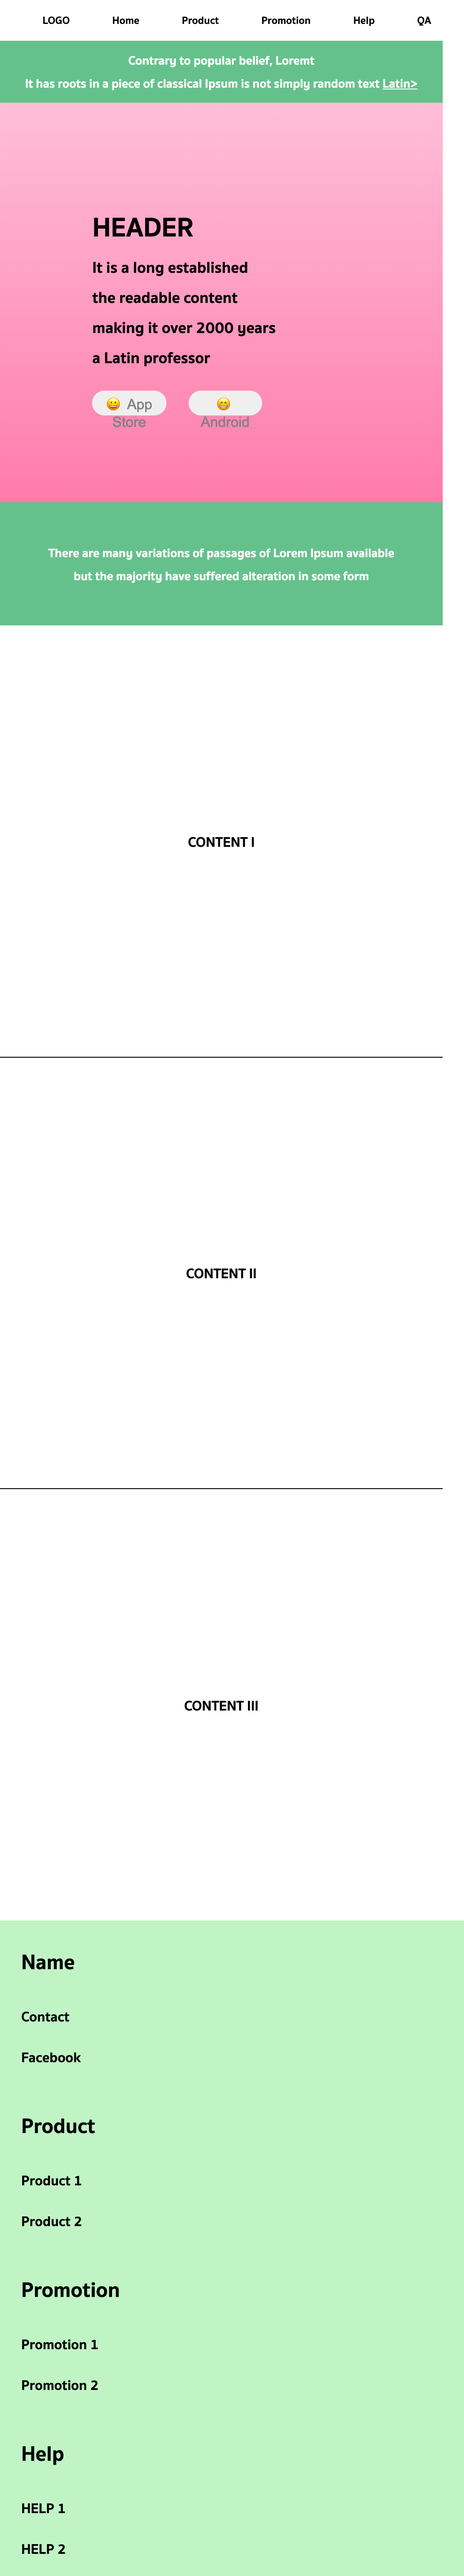
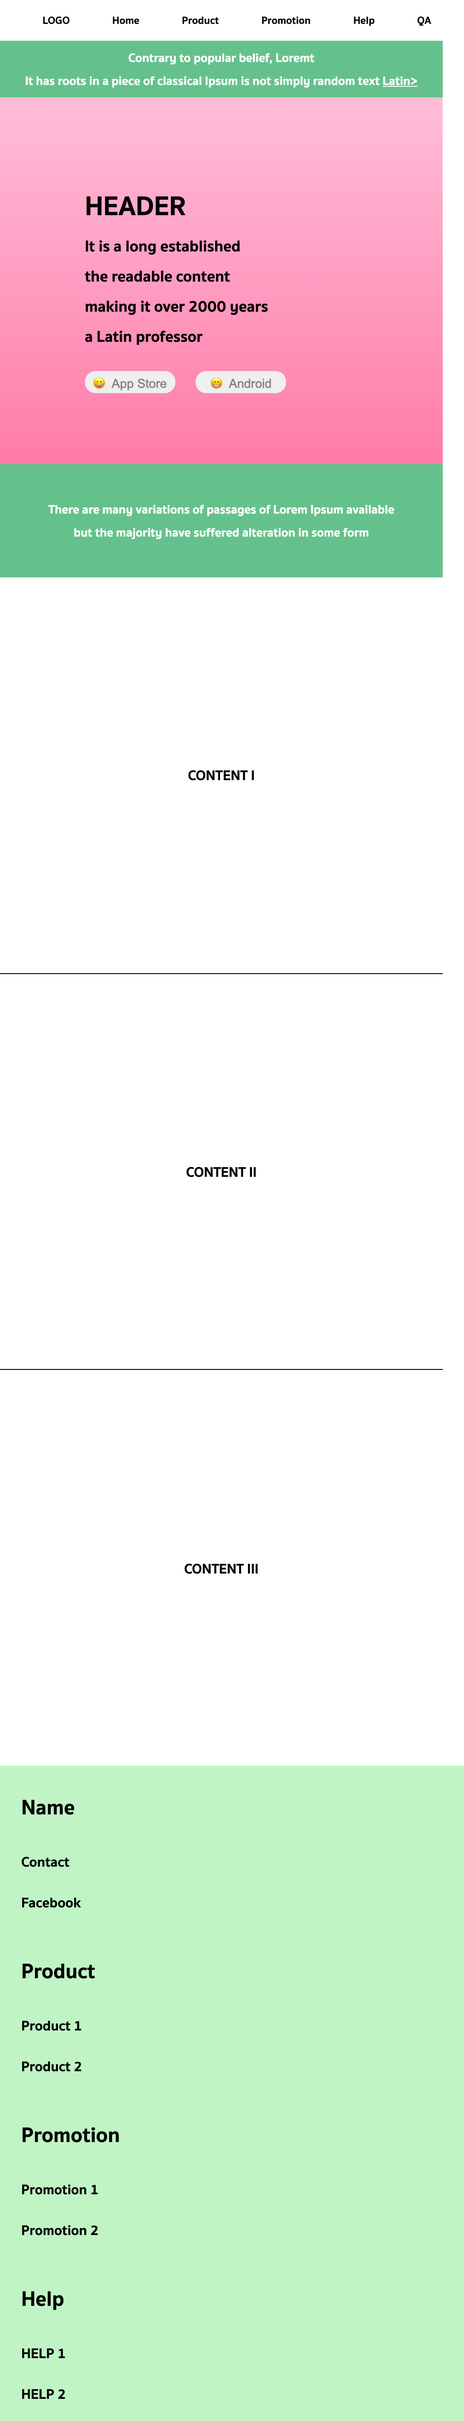
fixed-sample

diff --git a/style.css b/style.css
@@ -180,9 +180,10 @@ footer{
         font-size: 31px;
     }
     .btn button{
-        font-size: 16px;
-        width: 12vh;
+        font-size: 14px;
+        width: 16vh;
         height: 4vh;
+
     }
     .col4{
         font-size: 14px;
